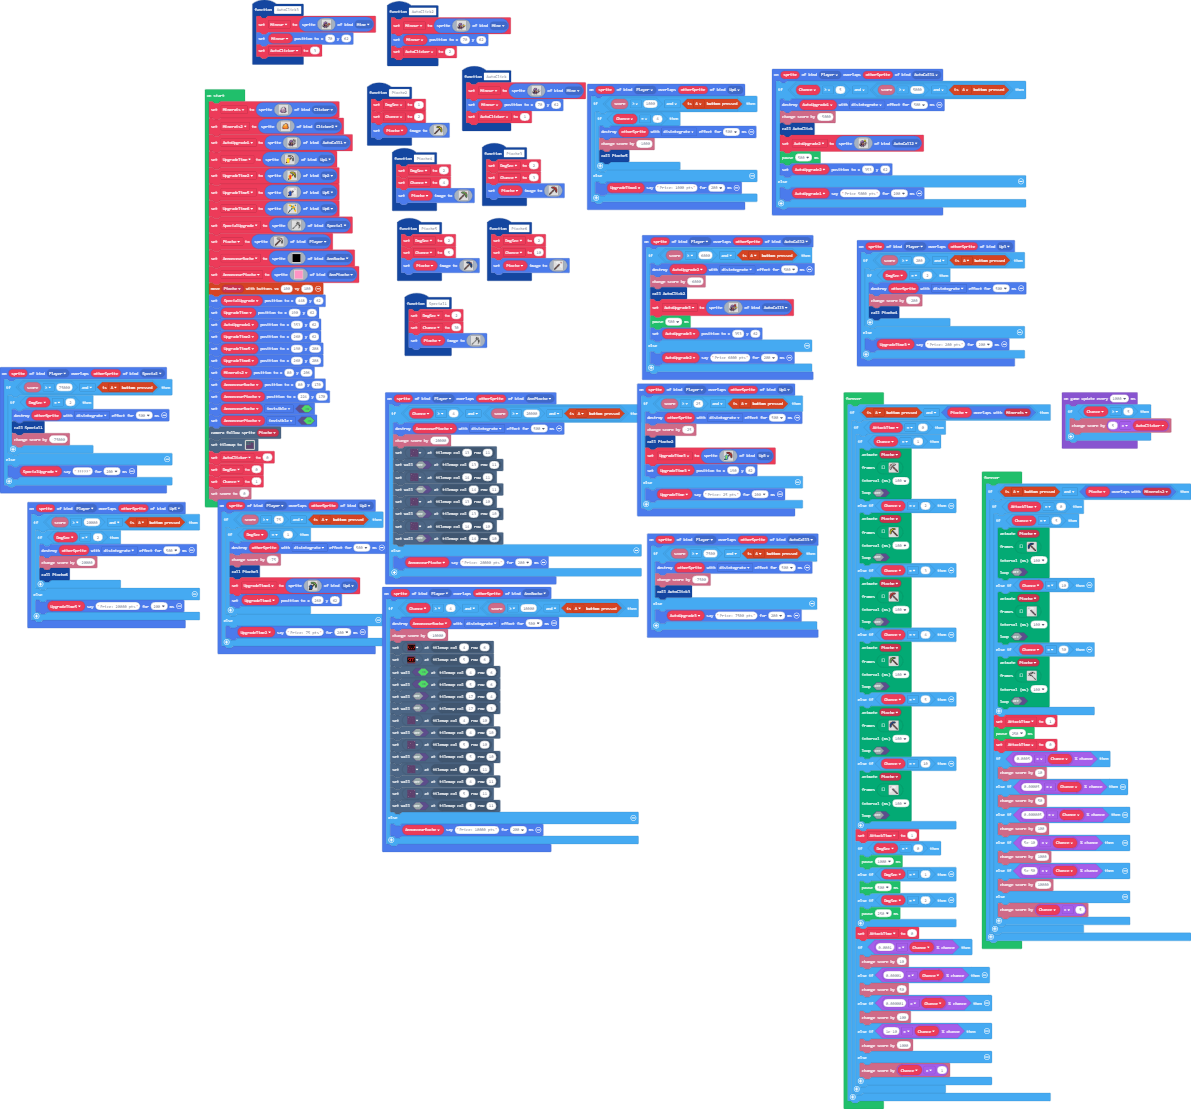
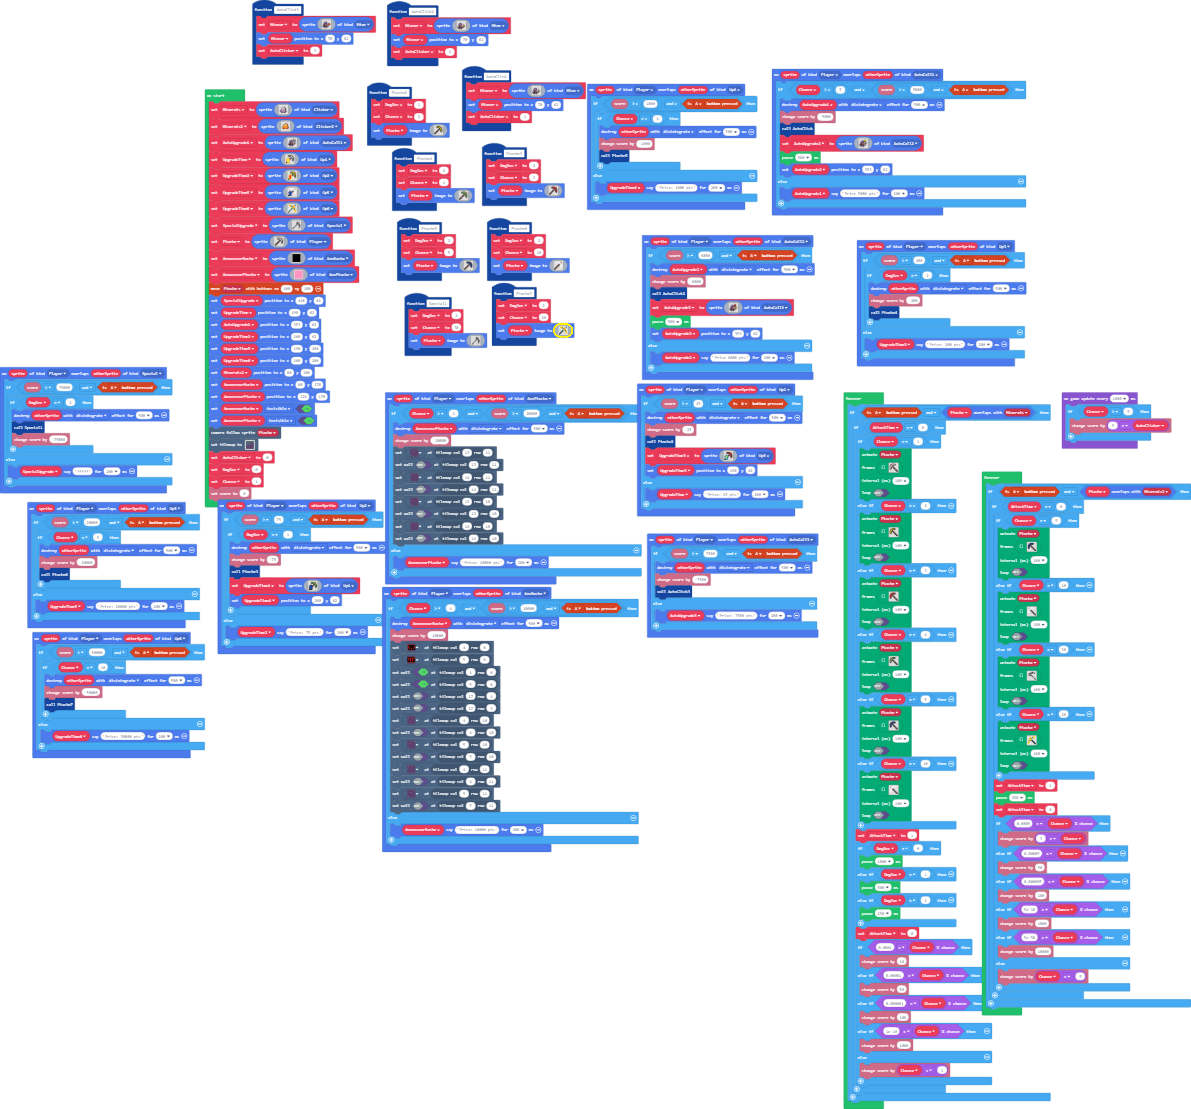
Update main.blocks, main.ts

Changed region(s): [[0.8077, 0.6438, 1.0, 0.9197], [0.0, 0.5518, 0.1864, 0.7051], [0.4039, 0.2453, 0.4971, 0.3372]]

diff --git a/main.ts b/main.ts
@@ -140,6 +140,28 @@ f d d f f a a a a c e e c a f f e f f . . . . .
     Mineur.setPosition(70, 62)
     AutoClicker = 1
 }
+function Pioche7 () {
+    DmgSec = 2
+    Chance = 20
+    Pioche.setImage(img`
+. . 5 5 5 5 . . . . . . . . 8 . 
+. 5 4 4 4 4 5 . . . 5 . . 8 6 8 
+. . 5 5 4 5 6 8 . 5 4 5 . . 8 . 
+. . . . 5 5 8 6 8 5 4 5 . . . . 
+. . . . . . . 8 6 5 4 4 5 5 . . 
+. . . . . . . 5 5 4 4 4 4 4 5 . 
+. . . . . . . . 5 4 4 5 5 5 . . 
+. . . . . . . f 6 5 5 6 8 . . . 
+. . . . . . f 6 f . 5 8 6 8 . . 
+. . . . . f 6 f . . . . 8 6 5 . 
+. . . . f 6 f . . . . . 5 5 4 5 
+. . . f 6 f . . . . . . 5 4 4 5 
+. . f 6 f . . . . . . . . 5 4 5 
+. f 6 f . . . . . . . . . 5 4 5 
+f 6 f . . . . . . . . . . . 5 . 
+f f . . . . . . . . . . . . . . 
+`)
+}
 sprites.onOverlap(SpriteKind.Player, SpriteKind.Up4, function (sprite, otherSprite) {
     if (info.score() >= 1000 && controller.A.isPressed()) {
         if (Chance == 4) {
@@ -190,6 +212,17 @@ f d d f f a a a a c e e c a f f e f f . . . . .
     Mineur.setPosition(70, 62)
     AutoClicker = 3
 }
+sprites.onOverlap(SpriteKind.Player, SpriteKind.Up6, function (sprite, otherSprite) {
+    if (info.score() >= 50000 && controller.A.isPressed()) {
+        if (Chance == 10) {
+            otherSprite.destroy(effects.disintegrate, 500)
+            info.changeScoreBy(-50000)
+            Pioche7()
+        }
+    } else {
+        UpgradeTime6.say("Price: 50000 pts", 200)
+    }
+})
 sprites.onOverlap(SpriteKind.Player, SpriteKind.AutoCall1, function (sprite, otherSprite) {
     if (Chance >= 5 && (info.score() >= 5000 && controller.A.isPressed())) {
         AutoUpgrade1.destroy(effects.disintegrate, 500)
@@ -311,7 +344,7 @@ sprites.onOverlap(SpriteKind.Player, SpriteKind.Up3, function (sprite, otherSpri
 })
 sprites.onOverlap(SpriteKind.Player, SpriteKind.Up5, function (sprite, otherSprite) {
     if (info.score() >= 20000 && controller.A.isPressed()) {
-        if (DmgSec == 2) {
+        if (Chance == 5) {
             otherSprite.destroy(effects.disintegrate, 500)
             info.changeScoreBy(-20000)
             Pioche6()
@@ -515,6 +548,7 @@ let AnnonceurPioche: Sprite = null
 let AnnonceurRoche: Sprite = null
 let Pioche: Sprite = null
 let SpecialUpgrade: Sprite = null
+let UpgradeTime6: Sprite = null
 let UpgradeTime5: Sprite = null
 let UpgradeTime2: Sprite = null
 let UpgradeTime: Sprite = null
@@ -656,7 +690,7 @@ c 8 8 8 8 8 c . . . 1 . 1
 f c 8 8 8 c . . . . . . . 
 f f c c c . . . . . . . . 
 `, SpriteKind.Up5)
-let UpgradeTime6 = sprites.create(img`
+UpgradeTime6 = sprites.create(img`
 . . 5 5 5 5 . . . . . . . . 8 . 
 . 5 4 4 4 4 5 . . . 5 . . 8 6 8 
 . . 5 5 4 5 6 8 . 5 4 5 . . 8 . 
@@ -1224,12 +1258,53 @@ f f f f . . . . . . . . . . . . . . . . . . . . . . . . . .
                 100,
                 false
                 )
+            } else if (Chance == 20) {
+                animation.runImageAnimation(
+                Pioche,
+                [img`
+. . . . . . . . . . 5 5 5 5 . . 
+. . . . . 5 . . . 5 4 4 4 4 5 . 
+. . . . 5 4 5 . 8 6 5 4 5 5 . . 
+. . . . 5 4 5 8 6 8 5 5 . . . . 
+. . 5 5 4 4 5 6 8 . . . . . . . 
+. 5 4 4 4 4 4 5 5 . . . . . . . 
+. . 5 5 5 4 4 5 . . . . . . . . 
+. . . 8 6 5 5 6 f . . . . . . . 
+. . 8 6 8 5 . f 6 f . . . . . . 
+. 5 6 8 . . . . f 6 f . . . . . 
+5 4 5 5 . . . . . f 6 f . . . . 
+5 4 4 5 . . . . . . f 6 f . . . 
+5 4 5 . . . . . . . . f 6 f . . 
+5 4 5 . . . . . . . . . f 6 f . 
+. 5 . . . . . . . . . . . f 6 f 
+. . . . . . . . . . . . . . f f 
+`,img`
+. . . . . . . . . . . . . . . . 
+. . . . . . . . . . . . . . . . 
+. . . . . . . . . . . . . . . . 
+. . . . . . . . . . . . . . . . 
+. . . . . . . . . . . . . . . . 
+. . . . . . . . . . . . . . . . 
+. . . . . . . . . . . . . . . . 
+. . . . . . . . . . . . . . . . 
+. . . . . . . . . . . . . . . . 
+. . . . . . . . . . . . . . . . 
+. . . . . . . . . . . . . . . . 
+. . . . . . . . . . . . . . . . 
+. . . . . . . . . . . . . . . . 
+. . . . . . . . . . . . . . . . 
+f . . . . . . . . . . . . . . . 
+f f . . . . . . . . . . . . . . 
+`],
+                100,
+                false
+                )
             }
             AttackTime = 1
             pause(250)
             AttackTime = 0
             if (Math.percentChance(0.0005 * Chance)) {
-                info.changeScoreBy(10)
+                info.changeScoreBy(3 * Chance)
             } else if (Math.percentChance(0.00005 * Chance)) {
                 info.changeScoreBy(50)
             } else if (Math.percentChance(0.000005 * Chance)) {
